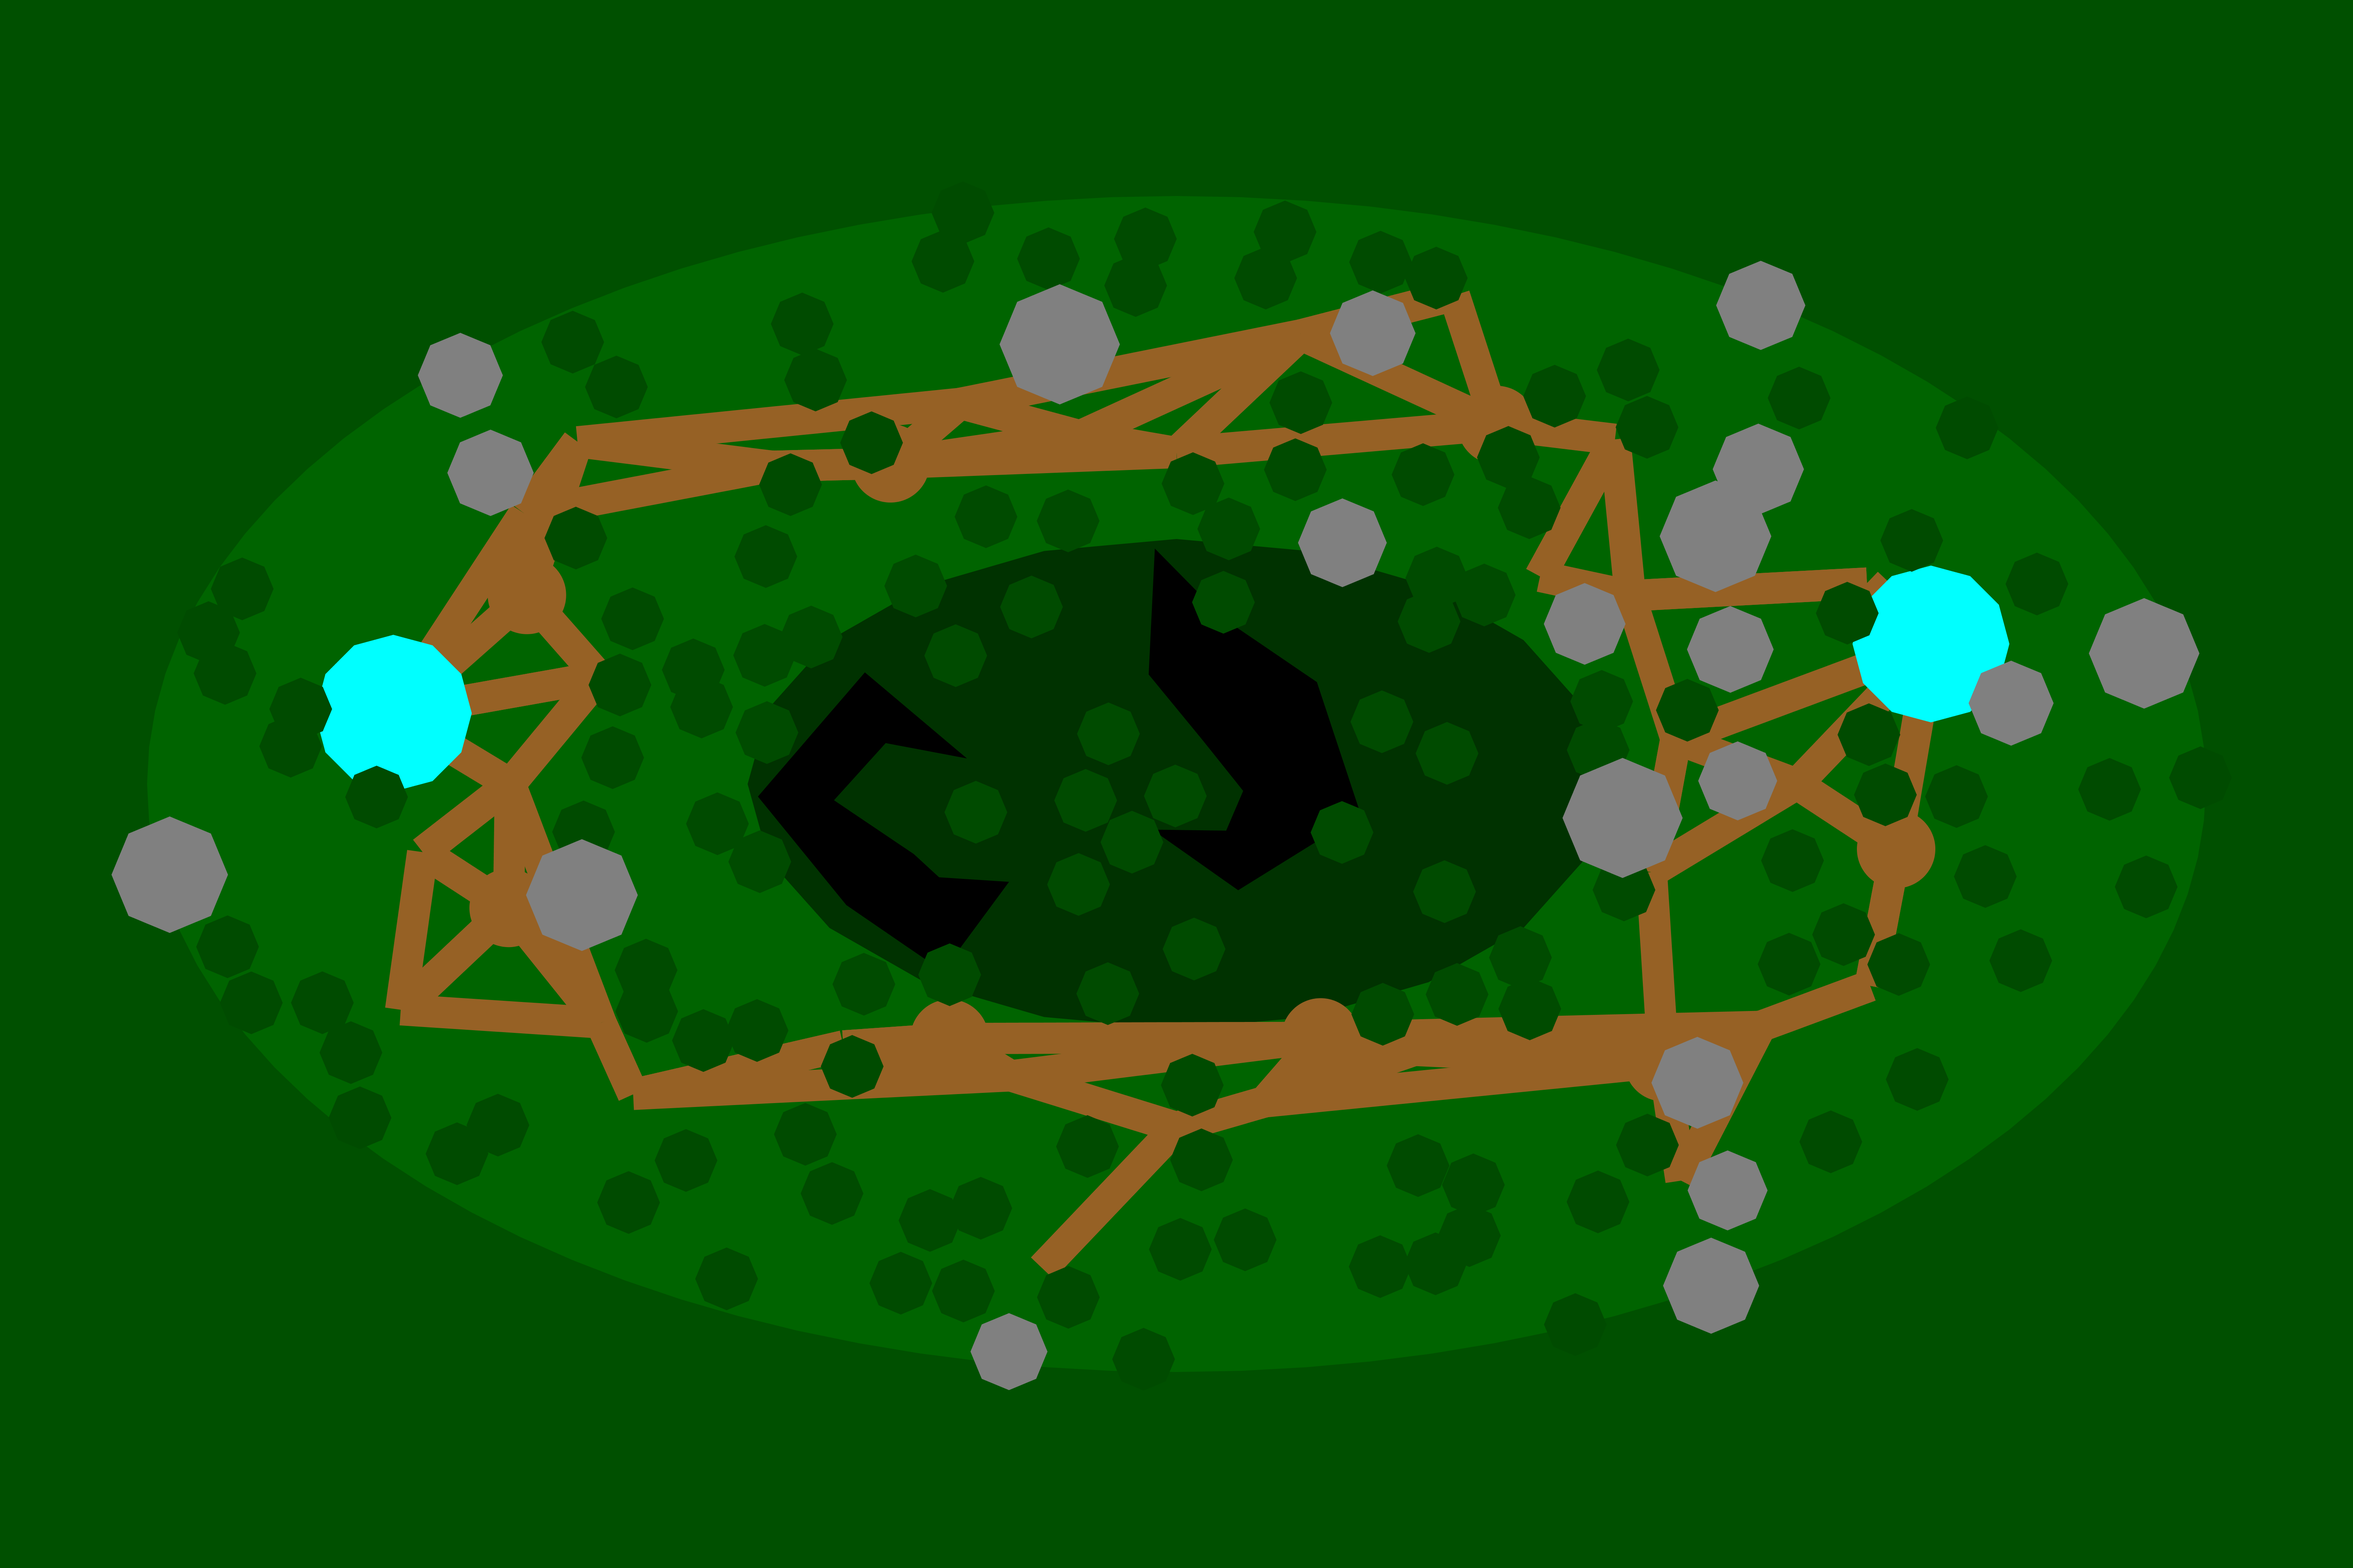
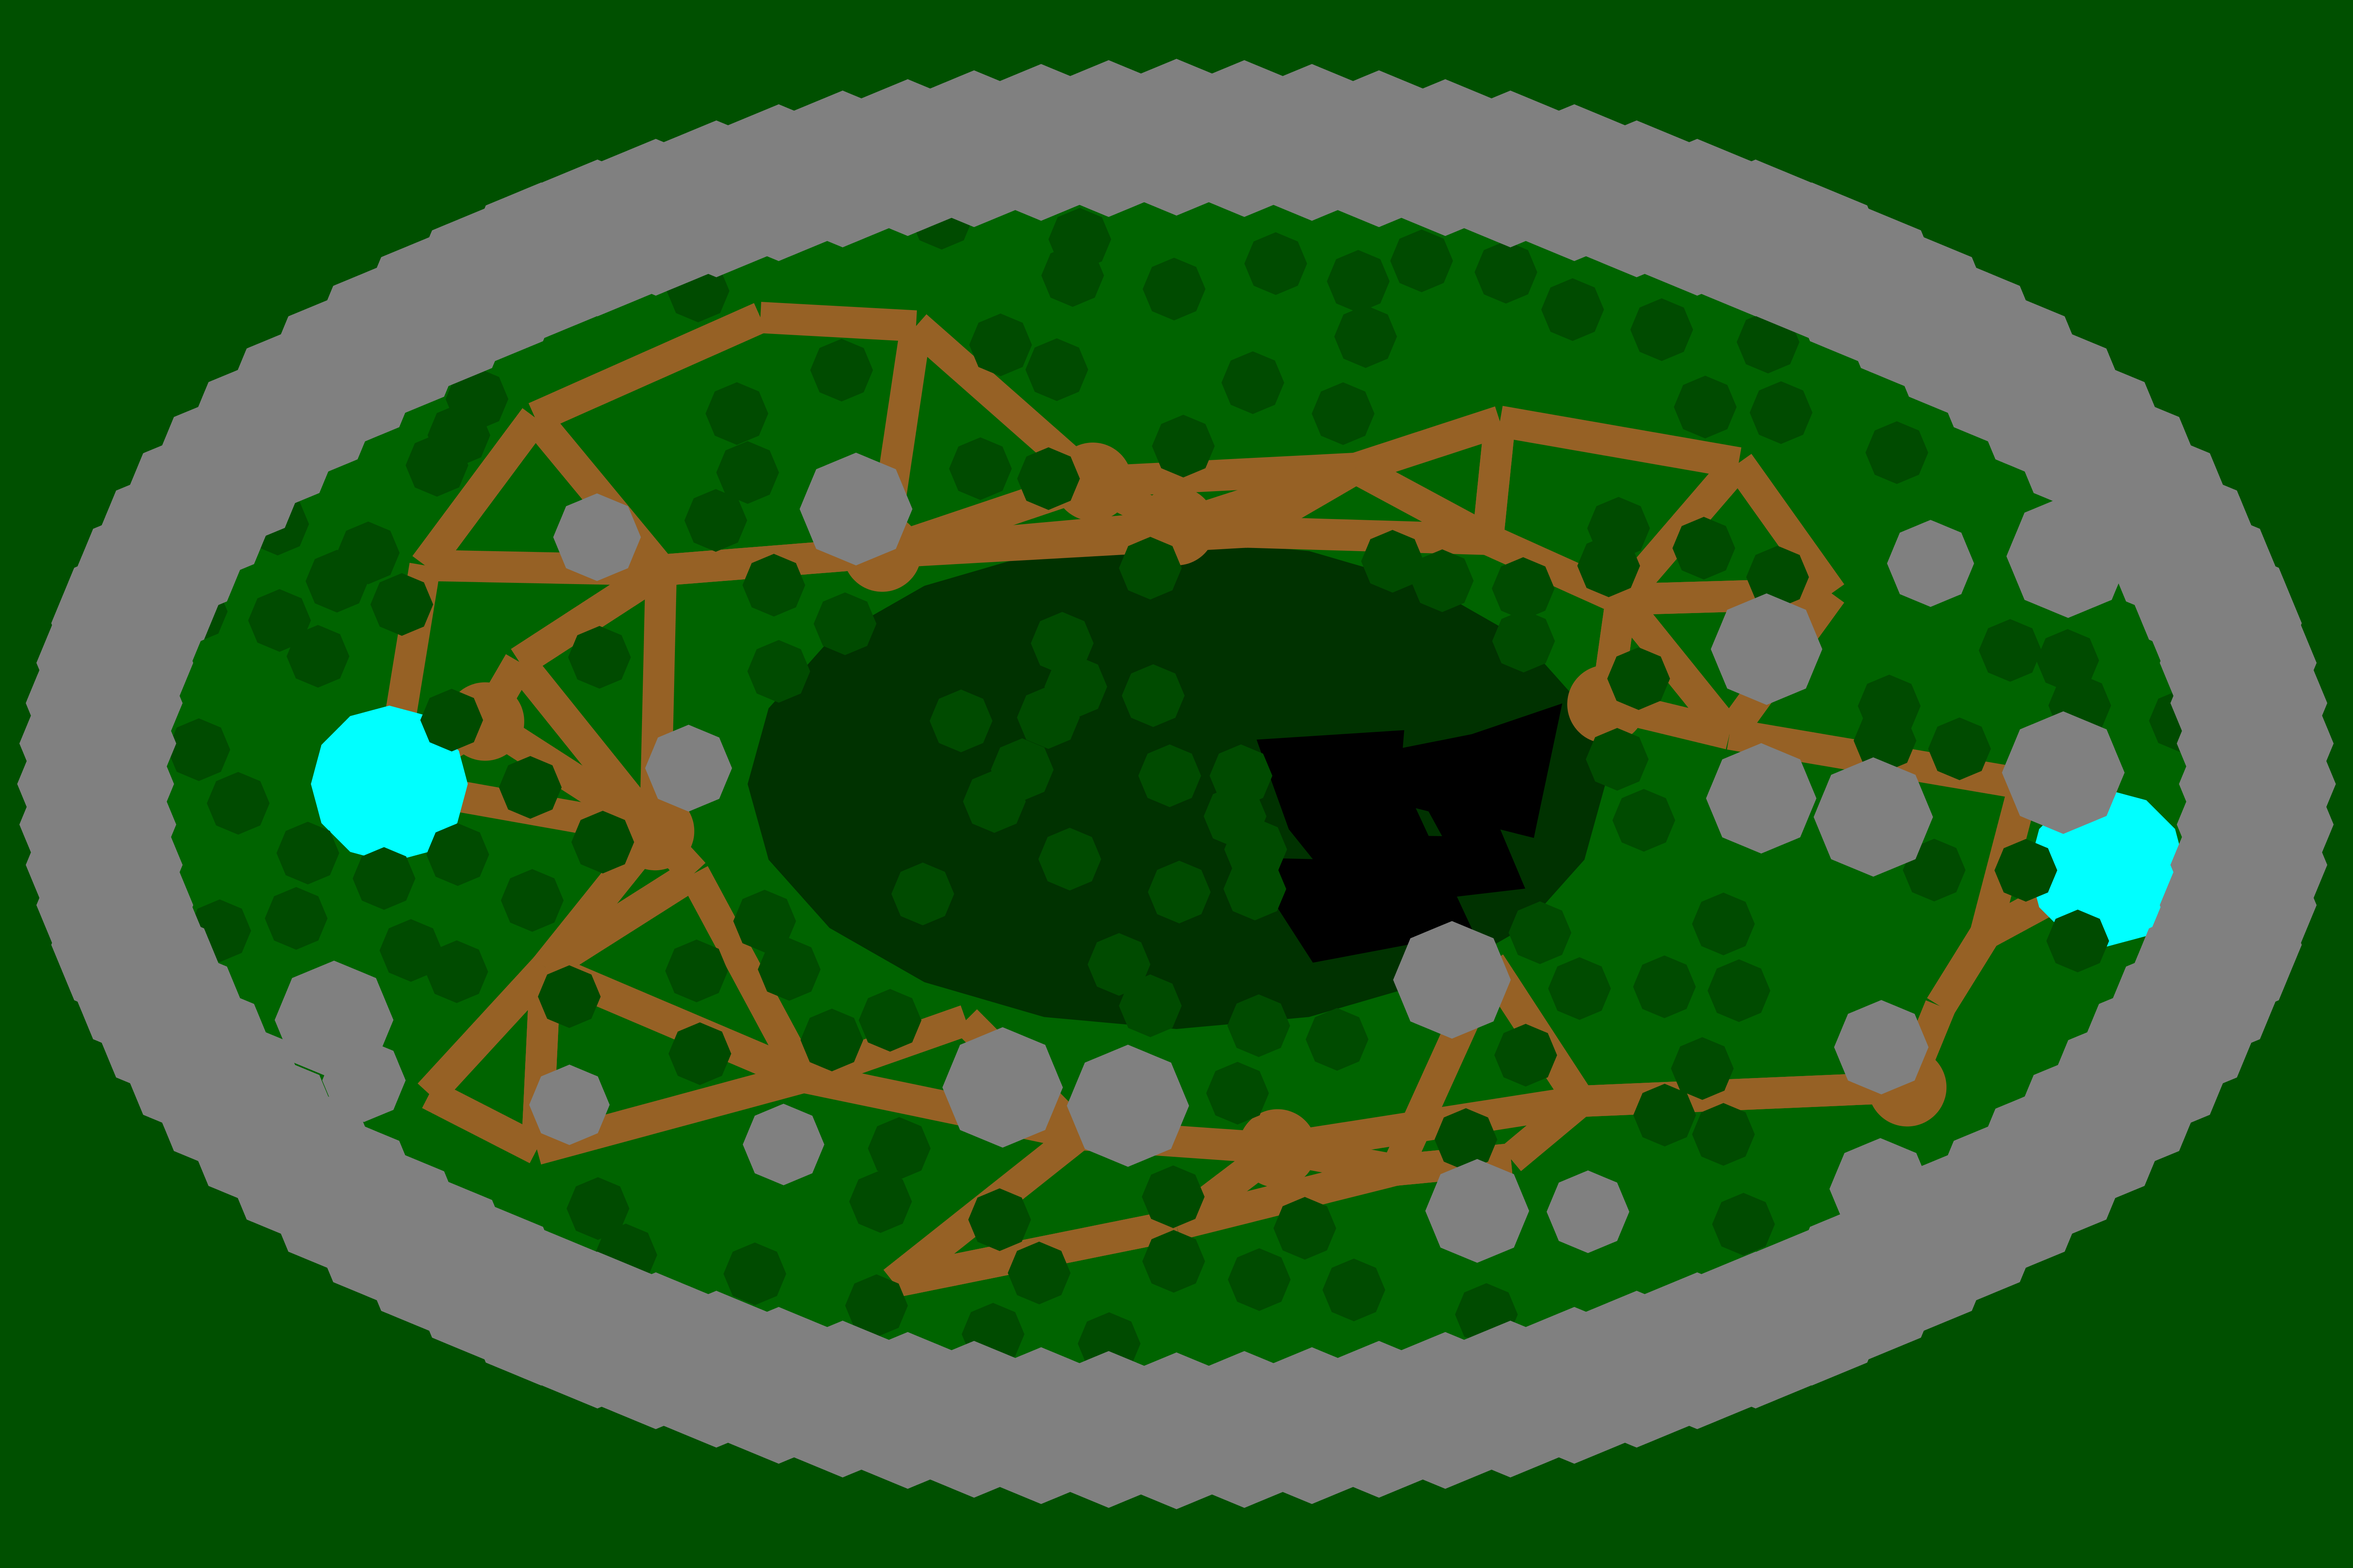
Added map boundary

diff --git a/src/server/MapGen.java b/src/server/MapGen.java
@@ -349,7 +349,7 @@ public class MapGen {
     }
 
 	/**
-	 * Accesses the region layer retroactivley to insert artifact clearings at the rightmost and leftmost nodes
+	 * Accesses the region layer retroactively to insert artifact clearings at the rightmost and leftmost nodes
 	 */
 	public void insertArtifactClearing() {
     	int teamOneDistance = 0;  
@@ -714,6 +714,59 @@ public class MapGen {
 	 */
 	public ArrayList<RoadNode> getNodes() {
       return this.nodes;
-    }             
+    }
+
+
+	/**
+	 * Generates a barrier of rocks around the map
+	 */
+
+	public void generateBarrier() {
+		ArrayList<Obstacle> tempList = new ArrayList<Obstacle>(0);
+		Obstacle creation1 = null;
+		Obstacle creation2 = null;
+		Obstacle creation3 = null;
+
+		for (int idx = 0; idx < regionLayer.regions.get(MAP_REGION_IDX).npoints; idx++) {
+			creation1 = new Obstacle();
+			creation2 = new Obstacle();
+
+			creation1.type = "ROCK";
+			creation2.type = "ROCK";
+
+			creation1.location = new Point(regionLayer.regions.get(MAP_REGION_IDX).xpoints[idx],
+					regionLayer.regions.get(MAP_REGION_IDX).ypoints[idx]);
+			creation2.location = new Point((int) (regionLayer.regions.get(MAP_REGION_IDX).xpoints[idx]*1.05),
+					(int)  (regionLayer.regions.get(MAP_REGION_IDX).ypoints[idx]*1.1));
+			creation1.radius = 1000;
+			creation2.radius = 1000;
+
+//			if (idx != 0) {
+//				creation3 = new Obstacle();
+//				creation3.type = "ROCK";
+//
+//				creation3.location = averagePoints(creation2.location,tempList.get(tempList.size() - 1).location);
+//
+//			}
+
+			//tempList.add(creation1);
+//			if (idx != 0) {
+//				creation3.radius = 1000;
+//				tempList.add(creation3);
+//			}
+			tempList.add(creation2);
+
+
+		}
+
+		obstacles.addAll(tempList);
+	}
+
+	public Point averagePoints(Point point1, Point point2) {
+		int finalX = (int) ((point1.x + point2.x)/2);
+		int finalY = (int) ((point1.y + point2.y)/2);
+
+		return new Point(finalX,finalY);
+	}
 }
 

diff --git a/src/server/MainMapGenModule.java b/src/server/MainMapGenModule.java
@@ -67,6 +67,8 @@ class MainMapGenModule extends JFrame{
          gen.makeObstaclesElliptical();
          gen.genClearingByNum(8, 500);
          gen.purgeRedundancies();
+         gen.generateBarrier();
+
          gen.addObstacleBoundingBoxes();
 
       }
@@ -191,7 +193,6 @@ class MainMapGenModule extends JFrame{
             for (int j = 0; j < gen.nodes.get(i).connections.size(); j++) {
                //this.drawLineCustom(gen.nodes.get(i).location, gen.nodes.get(i).connections.get(j), g);
             }
-
          }
 
          for (int i = 0; i < gen.obstacles.size(); i++) {
